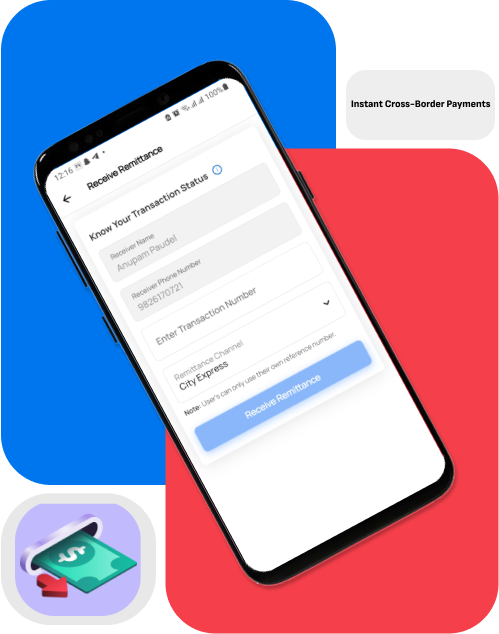
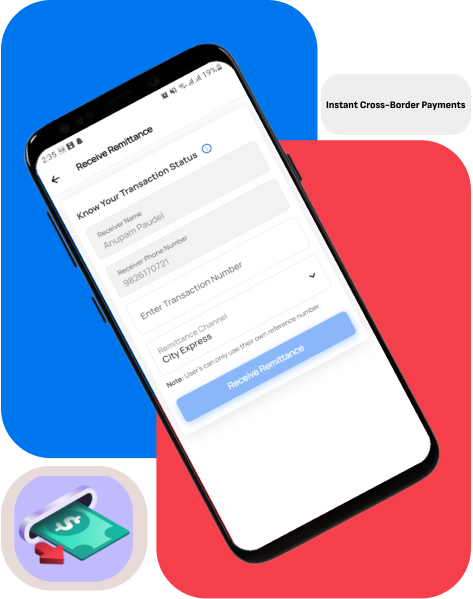
day 2 march 6

diff --git a/Citypay/style/landing.css b/Citypay/style/landing.css
@@ -132,6 +132,8 @@ body {
   color: white;
 }
 
+/* first section starts here */
+
 .first-section {
   height: 87vh;
   width: 100%;
@@ -150,36 +152,37 @@ body {
   flex-direction: column;
   width: 80%;
   height: 100%;
-  /* overflow: hidden; */
 }
 
 .buttons {
-  width: 100%;
+  width: 270px;
+  height: 85px;
   display: flex;
   gap: 20px;
+  margin-top: 20px;
 }
 .gplay-btn {
-  width: 290px;
-  height: 85px;
+  width: 100%;
+  height: 100%;
 }
 
 .appstore-btn {
-  width: 290px;
-  height: 85px;
+  width: 100%;
+  height: 100%;
 }
 
 .dwnld-img img {
   object-fit: contain;
-  overflow: hidden;
   width: 100%;
-  height: 700px;
+  height: 100%;
 }
 
 .dwnld-img {
+  height: 90%;
   position: absolute;
   right: 0;
   top: 10px;
-  right: 130px;
+  right: 180px;
 }
 
 .dwnld-desc {
@@ -187,6 +190,8 @@ body {
 }
 
 .description h1 {
+  padding: 0;
+  margin: 0;
   font-family: "PT Sans";
   font-size: 55px;
   color: #0d60b5;
@@ -237,8 +242,8 @@ body {
   /* object-fit: contain; */
 }
 .second-img img {
-  width: 90%;
-  height: 80%;
+  width: 100%;
+  height: 90%;
 }
 .second-grid {
   grid-template-rows: 1fr 1fr 1fr;
